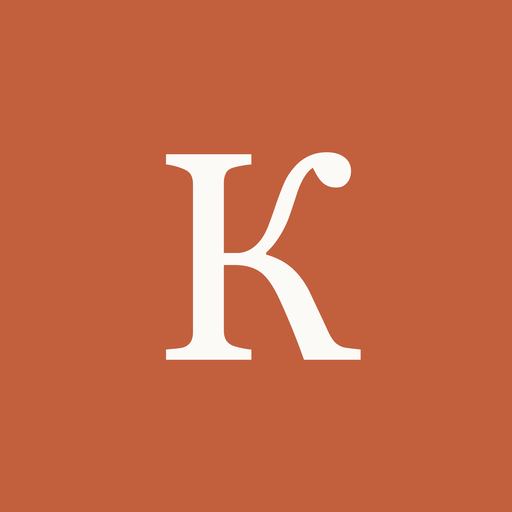
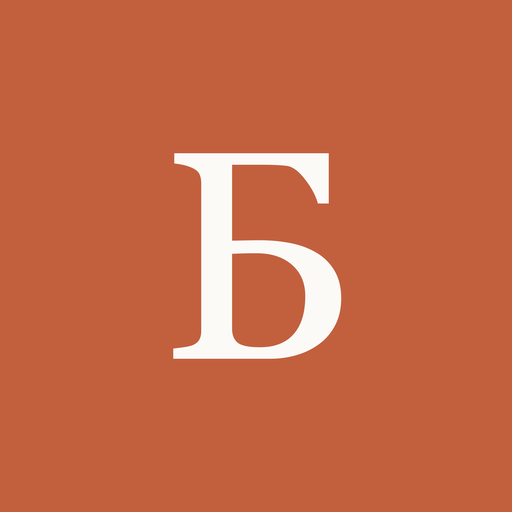
Переименовать в Бахдор

Changed region(s): [[0.3125, 0.2812, 0.7188, 0.7188]]

diff --git a/index.html b/index.html
@@ -3,11 +3,11 @@
 <head>
 <meta charset="utf-8">
 <meta name="viewport" content="width=device-width, initial-scale=1, viewport-fit=cover">
-<title>Кредитка</title>
+<title>Бахдор</title>
 <meta name="description" content="Сколько можно тратить с кредитки в день, чтобы закрыть долг в беспроцентный период">
 <meta name="apple-mobile-web-app-capable" content="yes">
 <meta name="mobile-web-app-capable" content="yes">
-<meta name="apple-mobile-web-app-title" content="Кредитка">
+<meta name="apple-mobile-web-app-title" content="Бахдор">
 <meta name="apple-mobile-web-app-status-bar-style" content="default">
 <meta name="theme-color" content="#F4F3EE" media="(prefers-color-scheme: light)">
 <meta name="theme-color" content="#262624" media="(prefers-color-scheme: dark)">
@@ -229,7 +229,7 @@ input[type="date"] { min-height: 46px; }
 
 <div class="wrap">
   <header class="top">
-    <h1>Кредитка</h1>
+    <h1>Бахдор</h1>
     <span class="date" id="todayLabel"></span>
   </header>
 

diff --git a/sw.js b/sw.js
@@ -1,5 +1,5 @@
 // Offline cache: page works without internet after first open. Network first, so updates arrive.
-const CACHE = "kreditka-v1";
+const CACHE = "bahdor-v1";
 const FILES = ["./", "index.html", "manifest.webmanifest", "apple-touch-icon.png", "icon-192.png", "icon-512.png"];
 self.addEventListener("install", (e) => { e.waitUntil(caches.open(CACHE).then((c) => c.addAll(FILES))); self.skipWaiting(); });
 self.addEventListener("activate", (e) => { e.waitUntil(caches.keys().then((ks) => Promise.all(ks.filter((k) => k !== CACHE).map((k) => caches.delete(k))))); self.clients.claim(); });
